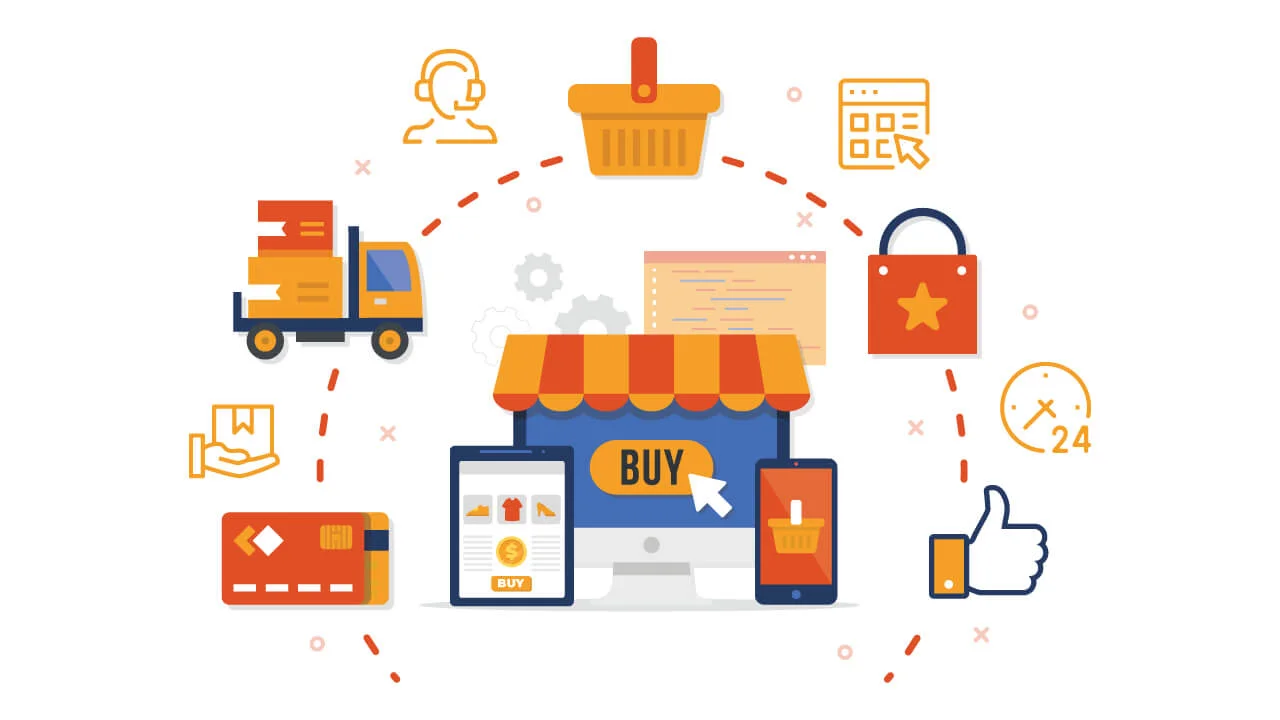
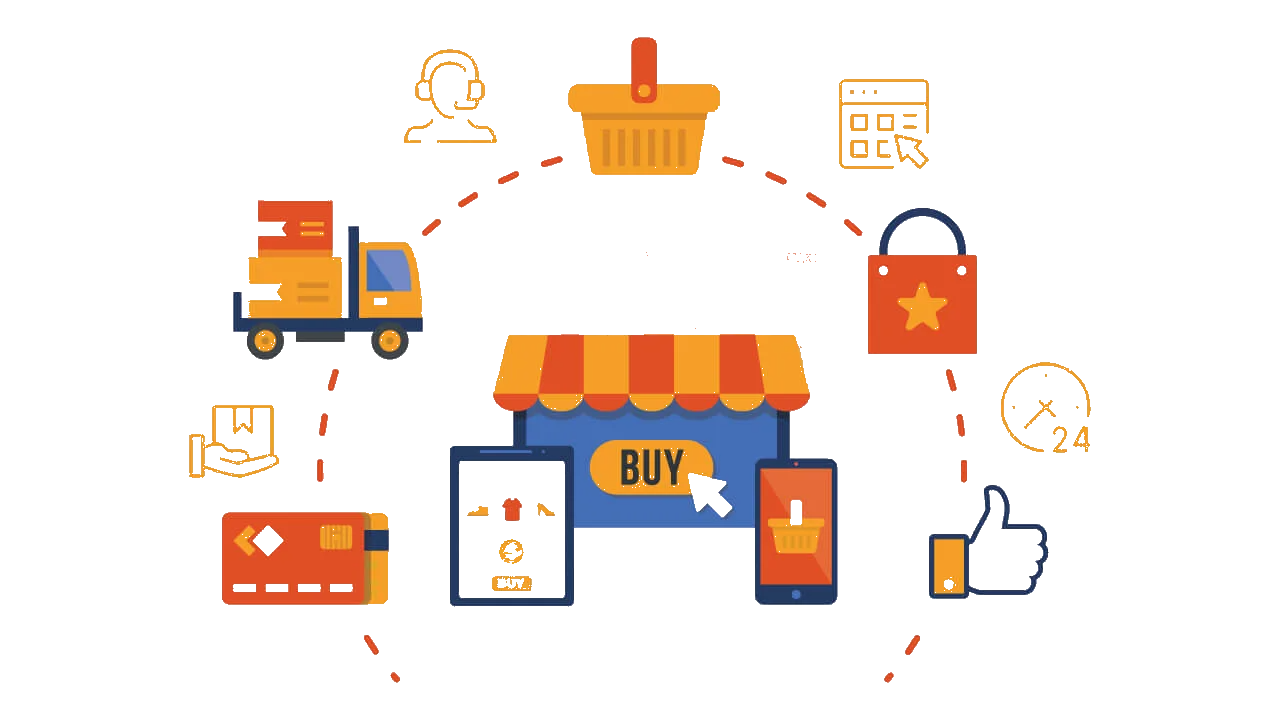
Hero Sections Designed

diff --git a/dukan/src/Pages/Public/Home/component/HeroSection.jsx b/dukan/src/Pages/Public/Home/component/HeroSection.jsx
@@ -1,34 +1,33 @@
 import HeroLeftSide from "../../../../assets/HeroLeftSide.png";
+import HeroShopping from "../../../../assets/HeroShopping.svg";
+import WebShoping from "../../../../assets/web_shopping.svg";
 
 const HeroSection = () => {
   return (
-    <section className="text-gray-600 body-font">
-      <div className="container mx-auto flex px-5 md:py-24 md:flex-row flex-col-reverse items-center">
-        <div className="lg:flex-grow md:w-1/2 lg:pr-24 md:pr-16 flex flex-col md:items-start md:text-left mb-16 md:mb-0 items-center text-center">
-          <h1 className="title-font sm:text-4xl text-2xl md:text-5xl mb-4 font-medium   text-fieryRed-400">
-            Dukan - Ghar se pass wali !
+    <section className="text-gray-600 body-font bg-[#F3F4F6]">
+      <div className="container mx-auto flex px-5 md:py-20 md:flex-row flex-col items-center">
+        <div className="max-w-screen-sm md:py-0 py-3 lg:w-full md:w-1/2 w-5/6">
+          <img
+            className="object-cover w-full h-auto object-center rounded"
+            alt="hero"
+            src={WebShoping}
+          />
+        </div>
+        <div className="lg:flex-grow md:w-1/2 lg:pr-24 md:pr-16 flex flex-col md:leading-12 md:items-start md:text-left mb-16 md:mb-0 items-center text-center px-8">
+          <h1 className="title-font sm:text-4xl text-2xl md:text-5xl mb-4 font-medium text-fieryRed-400 pt-2">
+            Dukan - Ghar se pass wali!
           </h1>
-          <p className="mb-8 leading-relaxed text-xl  text-tahiti-200 ">
-            Aaiye, apni duniya ko sawarne ke liye ek nayi shuruaat karein. Hum
-            laye hain aapke liye sabse sundar aur anokhe products, sirf apke
-            liye. Yahan har cheez milegi, har khwahish poori hogi. Toh ab
-            intezaar kis baat ka? Dukan kholne ka samay aa gaya hai!
+          <p className="mb-8 leading-relaxed text-xl text-tahiti-200 pt-2">
+            Ab intezaar kis baat ka? Dukan kholne ka samay aa gaya hai! <br />
+            <span className="text-fieryRed-300 font-semibold block leading-loose pt-2">
+              Save more with coupons and get up to 70% off!
+            </span>
           </p>
-          <div className="flex justify-center">
-            <button className="inline-flex text-white  bg-fieryRed-300 border-0 py-2  px-3 md:px-6 focus:outline-none hover:bg-fieryRed-400 rounded text-lg">
+          <div className="flex justify-center  pt-2 ">
+            <button className="inline-flex text-white bg-fieryRed-300 border-0 py-2 px-6 focus:outline-none hover:bg-fieryRed-400 rounded text-lg">
               Start Shopping
             </button>
-            <button className="ml-4 inline-flex text-gray-700 bg-gray-100 border-0 py-2 px-3  md:px-6 focus:outline-none hover:bg-gray-200 rounded text-lg">
-              Learn More
-            </button>
           </div>
-        </div>
-        <div className="lg:max-w-lg md:py-0 py-3 lg:w-full md:w-1/2 w-5/6">
-          <img
-            className="object-cover h-[400px]  object-center rounded"
-            alt="hero"
-            src={HeroLeftSide}
-          />
         </div>
       </div>
     </section>

diff --git a/dukan/tailwind.config.js b/dukan/tailwind.config.js
@@ -15,7 +15,7 @@ export default {
         100: "#f3bf8e",
         200: "#f3bf8e",
         300: "#e98b2e",
-        400: "#dd4b25",
+        400: "#2D323C",
       },
     },
   },
